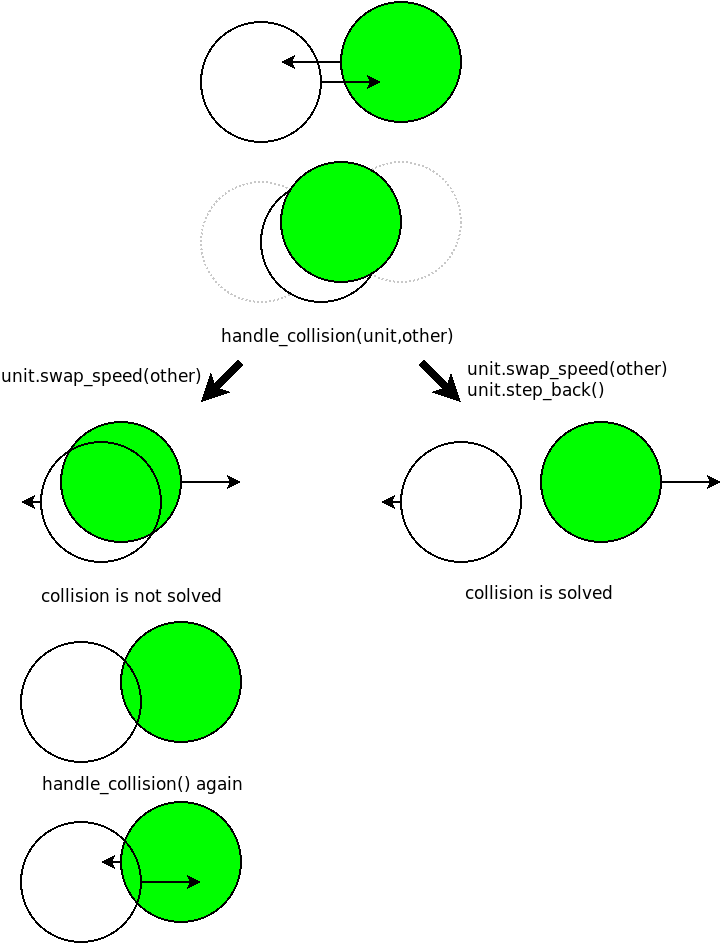
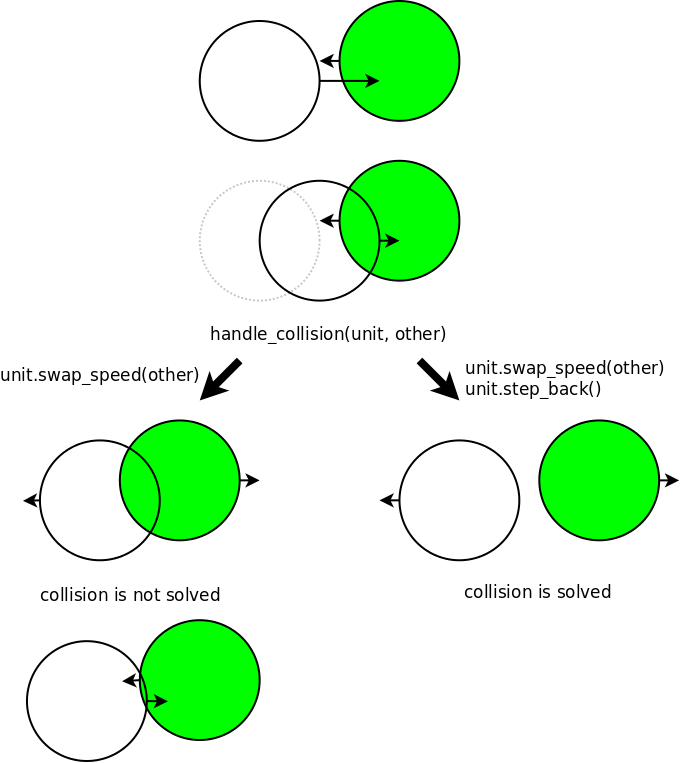
update

diff --git a/opdrachten/week8/pygame11_points/main.py b/opdrachten/week8/pygame11_points/main.py
@@ -47,7 +47,9 @@ def main():
         clock.tick(60)
 
 def handle_collision(unit, other):
-    """ Handles the collision of 'unit' and 'other'. """ 
+    """ Handles the collision of 'unit' stepping into 'other' by swapping their speed 
+        and stepping 'unit' back. 
+    """
     if isinstance(other, Pill):         # if there is a collision with an instance of Pill 
         if isinstance(unit, Player):    #    if a Player instance collides with Pill, eat the pill
             unit.eat_pill()

diff --git a/opdrachten/week8/pygame07_sticky_units/main.py b/opdrachten/week8/pygame07_sticky_units/main.py
@@ -42,7 +42,9 @@ def main():
         clock.tick(60)
 
 def handle_collision(unit, other):
-    """ Handles the collision of 'unit' and 'other' by swapping their speed. """ 
+    """ Handles the collision of 'unit' stepping into 'other' by swapping their speed 
+        and stepping 'unit' back. 
+    """ 
     unit.swap_speed(other)
     unit.step_back()
     

diff --git a/opdrachten/week8/pygame08_spawn_aliens/main_solution.py b/opdrachten/week8/pygame08_spawn_aliens/main_solution.py
@@ -41,7 +41,9 @@ def main():
         clock.tick(60)
 
 def handle_collision(unit, other):
-    """ Handles the collision of 'unit' and 'other' by swapping their speed. """ 
+    """ Handles the collision of 'unit' stepping into 'other' by swapping their speed 
+        and stepping 'unit' back. 
+    """ 
     unit.swap_speed(other)
     unit.step_back()
     

diff --git a/opdrachten/week8/pygame09_different_aliens/main_solution.py b/opdrachten/week8/pygame09_different_aliens/main_solution.py
@@ -43,7 +43,9 @@ def main():
         clock.tick(60)
 
 def handle_collision(unit, other):
-    """ Handles the collision of 'unit' and 'other' by swapping their speed. """ 
+    """ Handles the collision of 'unit' stepping into 'other' by swapping their speed 
+        and stepping 'unit' back. 
+    """
     unit.swap_speed(other)
     unit.step_back()
     

diff --git a/opdrachten/week8/pygame08_spawn_aliens/main.py b/opdrachten/week8/pygame08_spawn_aliens/main.py
@@ -41,7 +41,9 @@ def main():
         clock.tick(60)
 
 def handle_collision(unit, other):
-    """ Handles the collision of 'unit' and 'other' by swapping their speed. """ 
+    """ Handles the collision of 'unit' stepping into 'other' by swapping their speed 
+        and stepping 'unit' back. 
+    """ 
     unit.swap_speed(other)
     unit.step_back()
 

diff --git a/opdrachten/week8/pygame06_interaction/main.py b/opdrachten/week8/pygame06_interaction/main.py
@@ -42,7 +42,7 @@ def main():
         clock.tick(60)
 
 def handle_collision(unit, other):
-    """ Handles the collision of 'unit' and 'other' by swapping their speed. """ 
+    """ Handles the collision of 'unit' stepping into 'other' by swapping their speed. """ 
     unit.swap_speed(other)
     
 if __name__ == "__main__":

diff --git a/opdrachten/week8/pygame07_sticky_units/index.md b/opdrachten/week8/pygame07_sticky_units/index.md
@@ -8,12 +8,12 @@ je dat eerst zelf wil proberen lees dan nog niet verder.
 
 Het aan elkaar plakken van units kan voorkomen doordat we in de
 `handle_collision()` functie alleen met de `swap_speed()` functie de
-snelheid wisselen van botsende units. Het kan gebeuren dat na het
-wisselen in de volgende tijdstap de botsing in stand blijft doordat we
-de `speed` van de player lager wordt door een aanpassing via het
-toetsenbord of door vermenigvuldigen met `0.95` (om de speler
-automatisch af te remmmen). De units blijven dan botsen in de
-daaropvolgende tijdstappen zodat het lijkt dat ze aan elkaar
+snelheid wisselen als een unit tegen een andere unit botst. Het kan
+gebeuren dat na het wisselen in de volgende tijdstap de botsing in
+stand blijft doordat de `speed` van de player lager wordt door een
+aanpassing via het toetsenbord of door vermenigvuldigen met `0.95` (om
+de speler automatisch af te remmmen). De units blijven dan botsen in
+de daaropvolgende tijdstappen zodat het lijkt dat ze aan elkaar
 vastplakken.
 
 ![sticky_units_figure.png](sticky_units_figure.png)
@@ -21,9 +21,9 @@ vastplakken.
 # Oplossing
 
 Om dit probleem op te lossen kunnen we in de `handle_collision()`
-functie in [main.py](main.py) naast `unit.swap_speed(other)` ook de
-`unti.step_back()` functie aanroepen om de botsing direct op te
-heffen:
+functie in [main.py](main.py) beter naast de `speed` wisselen met
+methodw `unit.swap_speed(other)`, ook de unit die de botsing
+veroorzaakt een stap terugzetten met methode `unit.step_back()`:
 
 ```python
 def handle_collision(unit, other):
@@ -32,10 +32,11 @@ def handle_collision(unit, other):
     unit.step_back()
 ```
 
-We maken daarvoor in de `step()` functie in [Unit.py](Unit.py) steeds
-een kopie van de `position` voordat we deze aanpassen zodat we kunnen
-terugstappen naar de vorige positie met de `step_back()` functie als
-er een botsing plaatsvindt:
+We maken hiervoor in de `step()` methode in [Unit.py](Unit.py) steeds
+eerst een kopie van de `position`, die we `previous_position` noemen,
+voordat we deze aanpassen. In de `step_back()` methode kunnen we dan
+terugstappen wanneer er een botsing plaatsvindt door simpelweg
+`position` de waarde van `previous_position` te geven:
 
 ```python
     def step(self, size):
@@ -45,6 +46,7 @@ er een botsing plaatsvindt:
         self.stay_on_window(size)
 
     def step_back(self):
+        """ Steps back to `previous_position`. """
         self.position = self.previous_position
 ```
 
@@ -52,12 +54,12 @@ er een botsing plaatsvindt:
 
 # Mutable
 
-Er gaat nog één ding mis in deze oplossing van het plakprobleem. Het
-type van een `position` is namelijk `pygame.Vector2`, en dat is een
-'class'. Een 'class' is net zoals een 'list' een 'mutable' type en
-zoals we eerder zagen is het gebruik van alleen een assignment niet
-voldoende om een onafhankelijke kopie te maken van een 'mutable' type,
-zoals ook blijkt uit dit voorbeeld:
+Maar er gaat nu nog één ding mis in deze oplossing van het
+plakprobleem. Het type van een `position` is namelijk
+`pygame.Vector2`, en dat is een 'class'. Een 'class' is net zoals een
+'list' een 'mutable' type en zoals we eerder zagen is het gebruik van
+alleen een assignment niet voldoende om een onafhankelijke kopie te
+maken van een 'mutable' type, zoals ook blijkt in dit voorbeeld:
 
 ```python
 import pygame
@@ -69,10 +71,10 @@ print("         position:",          position) # [110, 110]
 print("previous_position:", previous_position) # [110, 110]  (but both are changed)
 ```
 
-# Opdracht:
+# Opdracht: Copy
 
 Pas de code in [Unit.py](Unit.py) aan zodat `self.previous_position`
 wel een onafhankelijke kopie is van `self.position` (dus zodat
 `self.previous_position` niet meeverandert als `self.position`
-verandert wordt). Denk aan de pijltjes in PythonTutor. Test daarna of
-units nog aan elkaar vastplakken.
+verandert wordt). Denk daarbij aan de pijltjes in PythonTutor. Test
+daarna of units nog aan elkaar vastplakken.
